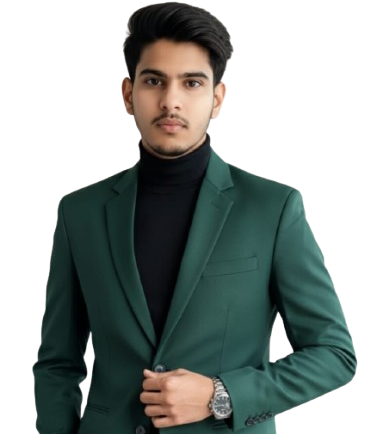
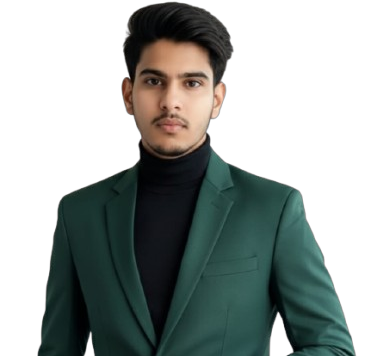
Update About section with new image and skills
Update About section with new profile image, add Python, SQL, and React to technical skills, and add new certificates.

Changed region(s): [[0.0875, 0.0, 0.9629, 1.0], [0.2626, 0.5871, 0.2918, 0.6489], [0.5836, 0.618, 0.6127, 0.6489]]

diff --git a/src/components/CertificationsSection.tsx b/src/components/CertificationsSection.tsx
@@ -14,24 +14,29 @@ const CertificationsSection = () => {
 
   const certifications = [
     {
-      name: "Google Cloud",
-      logo: "https://cdn.jsdelivr.net/gh/devicons/devicon/icons/googlecloud/googlecloud-original.svg",
-      description: "Cloud Architecture",
+      name: "SOFTFLEW Technologies",
+      image: "/src/assets/cert-softflew.png",
+      description: "Python with Data Science - 41 Days Summer Training",
     },
     {
-      name: "MongoDB",
-      logo: "https://cdn.jsdelivr.net/gh/devicons/devicon/icons/mongodb/mongodb-original.svg",
-      description: "Database Expert",
+      name: "AWS Solutions Architecture",
+      image: "/src/assets/cert-aws.png",
+      description: "Solutions Architecture Job Simulation via Forage",
     },
     {
-      name: "AWS",
-      logo: "https://cdn.jsdelivr.net/gh/devicons/devicon/icons/amazonwebservices/amazonwebservices-original-wordmark.svg",
-      description: "Solutions Architect",
+      name: "HackShastra",
+      image: "/src/assets/cert-hackshastra.png",
+      description: "Round 1 Idea Submission - Team Red Shade",
     },
     {
-      name: "React",
-      logo: "https://cdn.jsdelivr.net/gh/devicons/devicon/icons/react/react-original.svg",
-      description: "Advanced Development",
+      name: "Intel AI for Entrepreneurship",
+      image: "/src/assets/cert-intel.png",
+      description: "Skill India Digital Hub - AI for Entrepreneurship",
+    },
+    {
+      name: "InternAI Assistant",
+      image: "/src/assets/cert-internai.png",
+      description: "AI-Powered Internship Training Program",
     },
   ];
 
@@ -126,11 +131,11 @@ const CertificationsSection = () => {
                 
                 {/* Logo */}
                 <div className="relative mb-4">
-                  <div className="w-24 h-24 mx-auto flex items-center justify-center bg-background/50 rounded-xl p-4 group-hover:scale-110 transition-transform duration-500">
+                  <div className="w-full h-48 mx-auto flex items-center justify-center bg-background/50 rounded-xl overflow-hidden group-hover:scale-105 transition-transform duration-500">
                     <img 
-                      src={cert.logo} 
+                      src={cert.image} 
                       alt={cert.name}
-                      className="w-full h-full object-contain"
+                      className="w-full h-full object-cover"
                     />
                   </div>
                 </div>

diff --git a/src/components/AboutSection.tsx b/src/components/AboutSection.tsx
@@ -10,6 +10,9 @@ const AboutSection = () => {
   const skills = [
     { name: "HTML/CSS", level: 95, icon: Globe, color: "from-primary to-cyan-400" },
     { name: "JavaScript", level: 90, icon: Code, color: "from-secondary to-purple-400" },
+    { name: "React", level: 92, icon: Code, color: "from-primary to-purple-400" },
+    { name: "Python", level: 88, icon: Code, color: "from-secondary to-blue-400" },
+    { name: "SQL", level: 85, icon: Database, color: "from-primary to-green-400" },
     { name: "Node.js", level: 85, icon: Server, color: "from-primary to-blue-400" },
     { name: "MongoDB", level: 88, icon: Database, color: "from-secondary to-indigo-400" },
   ];
